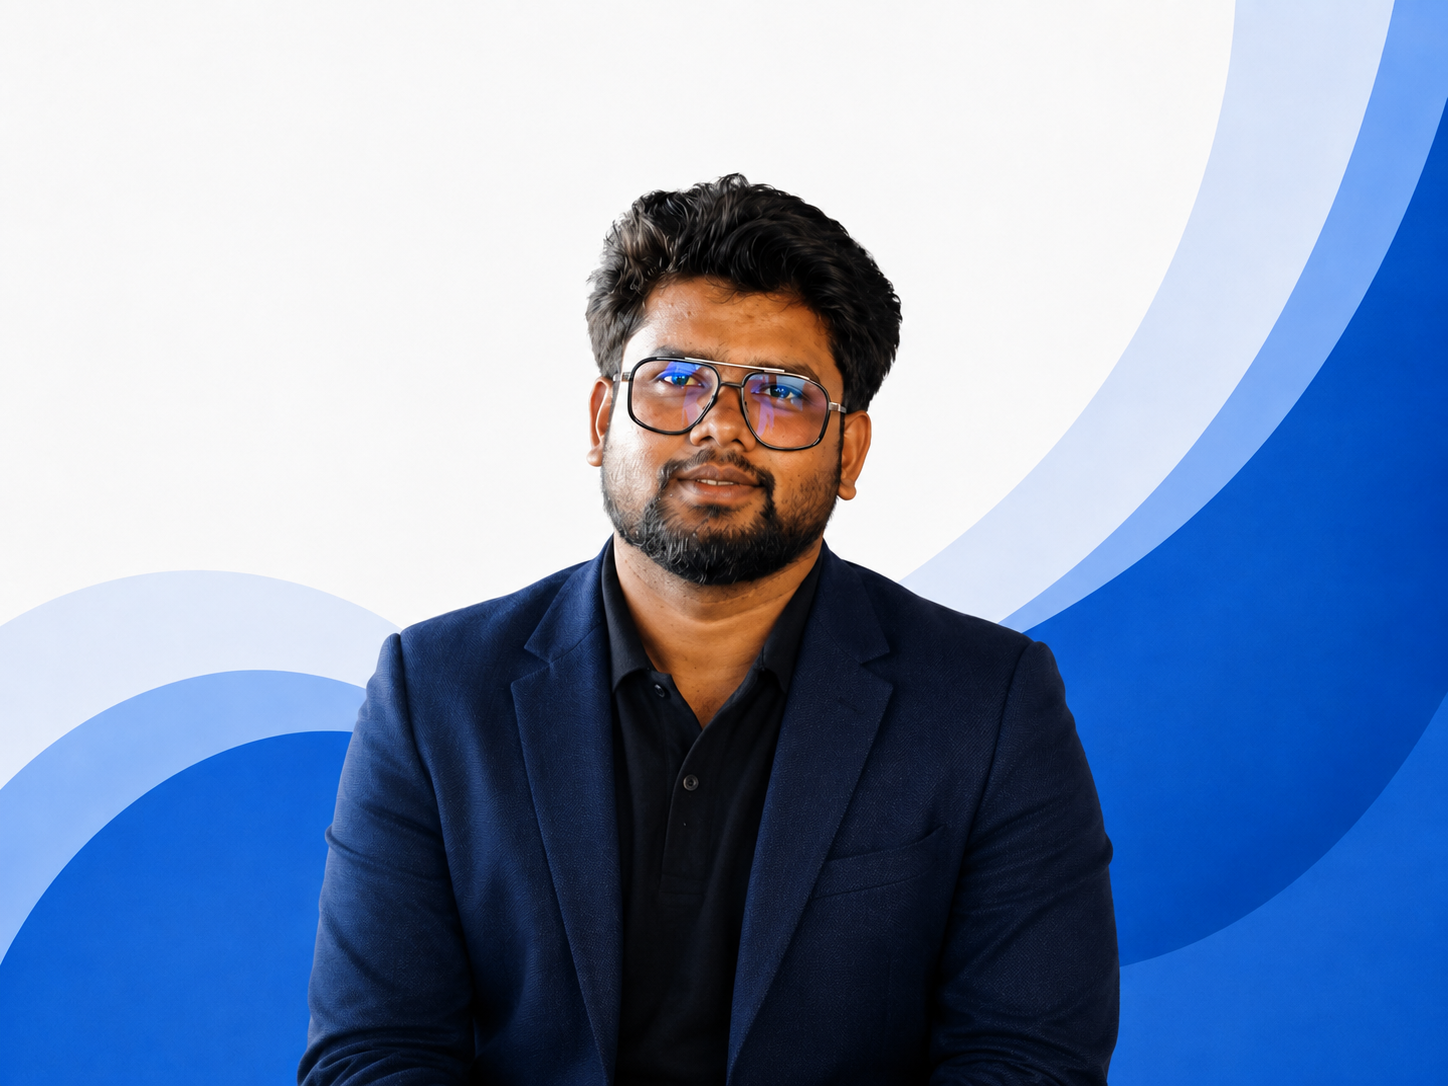
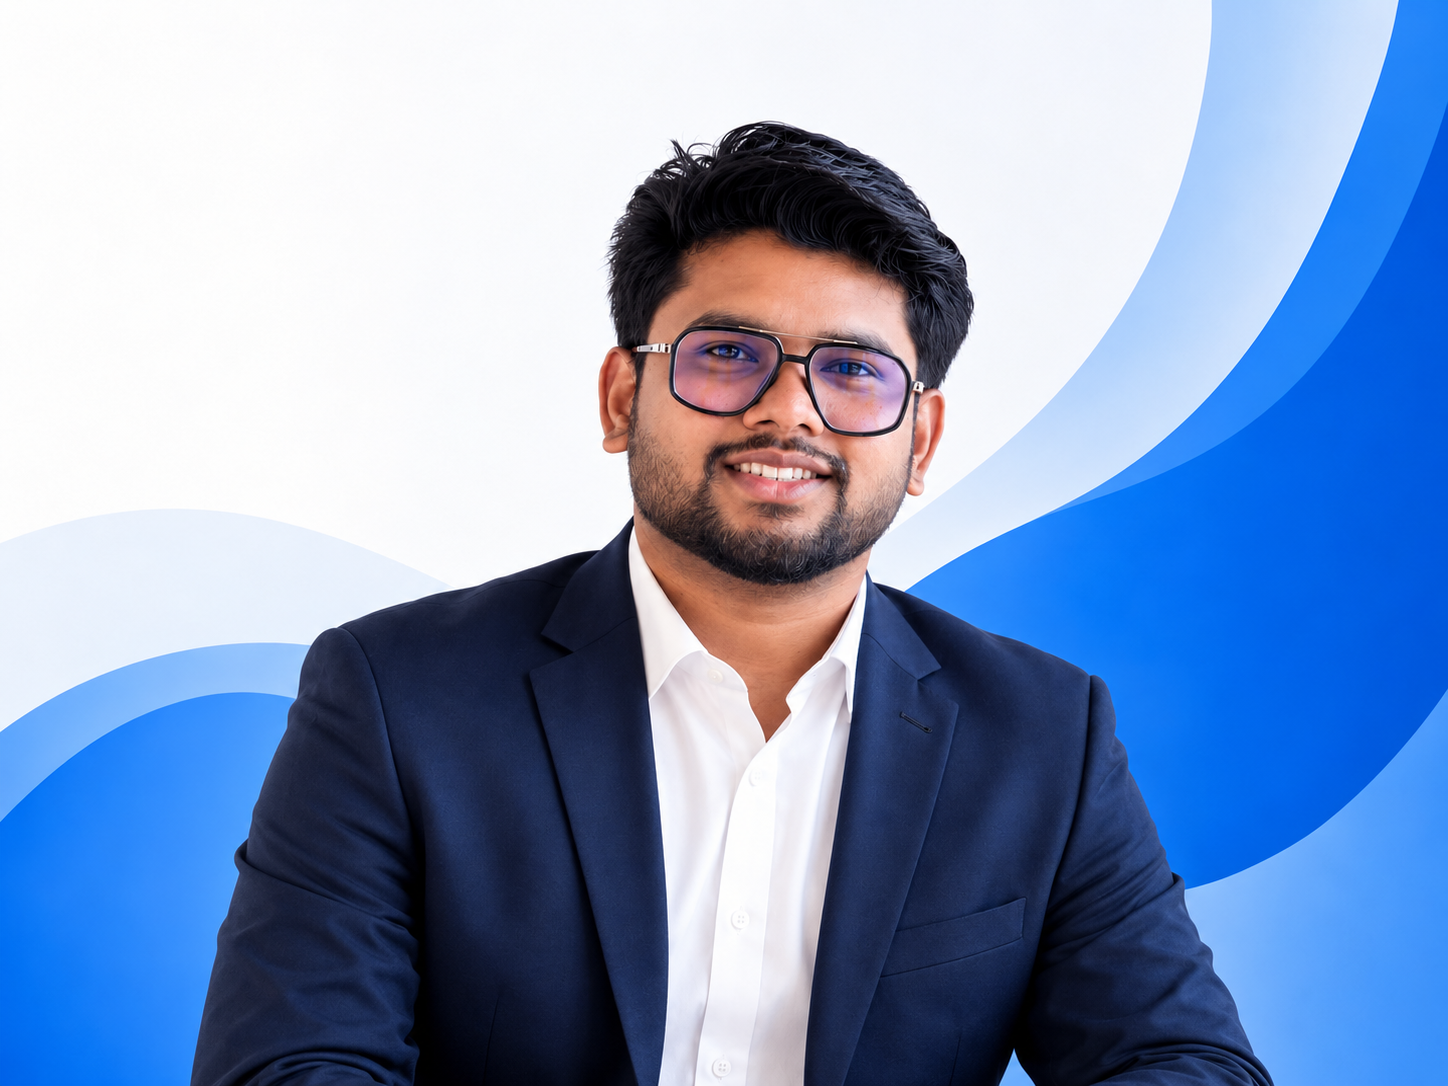
Update Creative Director name to Nithinkumar ks

diff --git a/index.html b/index.html
@@ -19,7 +19,7 @@
   <script src="https://unpkg.com/lucide@latest"></script>
 
   <!-- Custom Stylesheet -->
-  <link rel="stylesheet" href="style.css?v=60">
+  <link rel="stylesheet" href="style.css?v=61">
 
   <!-- Preload Assets -->
   <link rel="preload" href="assets/logo.png" as="image">
@@ -436,13 +436,13 @@
               </div>
             </div>
 
-            <!-- 3. Nithin Kumar K S -->
+            <!-- 3. Nithinkumar ks -->
             <div class="team-card" data-member="nithin">
               <div class="team-img-wrapper">
-                <img src="assets/BOARD MEMBERS/nithin.png" alt="Nithin Kumar K S" class="team-img">
+                <img src="assets/BOARD MEMBERS/nithin.png" alt="Nithinkumar ks" class="team-img">
               </div>
               <div class="team-info">
-                <h3 class="team-name">Nithin Kumar K S</h3>
+                <h3 class="team-name">Nithinkumar ks</h3>
                 <span class="team-role">Creative Director</span>
                 <div class="team-social-row">
                   <a href="https://www.linkedin.com/in/nithinkumar-ks-482659381?utm_source=share_via&utm_content=profile&utm_medium=member_android"
@@ -777,7 +777,7 @@
   <div class="toast-container" id="toastContainer"></div>
 
   <!-- Custom JavaScript -->
-  <script src="script.js?v=60"></script>
+  <script src="script.js?v=61"></script>
 </body>
 
 </html>

diff --git a/script.js b/script.js
@@ -795,7 +795,7 @@ document.addEventListener('DOMContentLoaded', () => {
       bio: "Spearheads omnichannel growth, performance marketing engines, media buying campaigns, and global brand equity." 
     },
     nithin: { 
-      name: "Nithin Kumar K S", 
+      name: "Nithinkumar ks", 
       role: "Creative Director", 
       img: "assets/BOARD MEMBERS/nithin.png", 
       bio: "Leads artistic vision, high-concept brand aesthetics, multi-platform design direction, and visual storytelling." 
